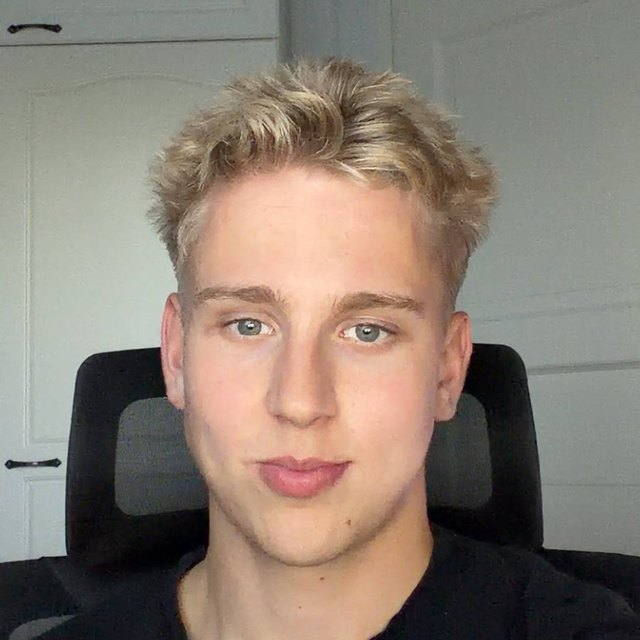
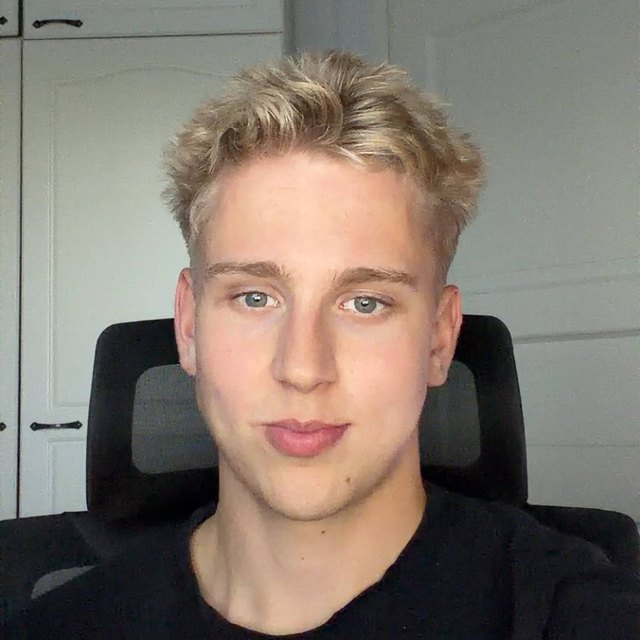
Akselin kuva väljemmin rajattuna

Changed region(s): [[0.0, 0.0, 1.0, 1.0], [0.9688, 0.5625, 1.0, 0.5938]]

diff --git a/google-ads-hallinta/index.html b/google-ads-hallinta/index.html
@@ -245,7 +245,7 @@
   <div class="wrap">
     <h2>Miksi ulkoistaa mainonta meille</h2>
     <div class="tekija">
-      <img src="akseli.jpg?v=20261121" alt="Akseli Lehtonen" width="640" height="640" loading="lazy" decoding="async">
+      <img src="akseli.jpg?v=20261121b" alt="Akseli Lehtonen" width="640" height="640" loading="lazy" decoding="async">
       <div>
         <h3>Kuka tekee mainoksesi</h3>
         <p class="tekija-nimi"><strong>Akseli Lehtonen</strong>, Google Ads -mainonta, Pikasivut</p>
